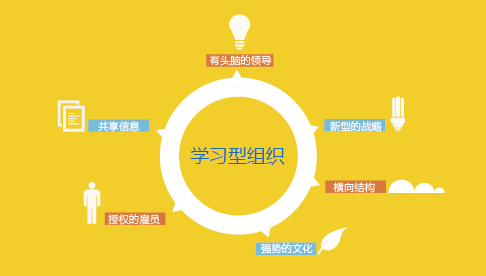
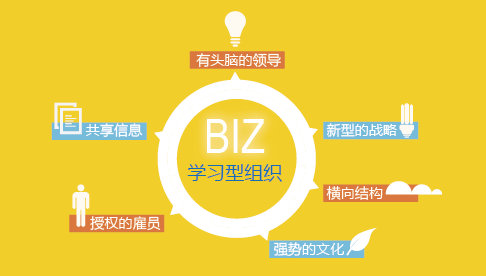
特色功能部分加入,云存储文字增加,隐私错别字修正,biz图片更新

diff --git a/wiznote-privacy.html b/wiznote-privacy.html
@@ -60,7 +60,7 @@
                         <p class="article-text">为知笔记的目标是向所有的互联网用户提供稳定、可靠而便捷的云笔记服务和美好的使用体验。用户对自己在为知笔记系列产品上的数据，拥有完整的所有权和使用权，我知科技、云服务提供商和任何第三方都无权使用您的数据。</p> 
                         <div>
                            <h2>数据安全</h2>
-                           <p class="article-text">为知笔记的数据存储，由国际著名云服务厂商提供服务。企业级用户可以自行选择云服务提供商，我们默认将个人用户的数据存储在阿里云服务器上，基于分布式存储技术，弹性计算服务实现了云服务器的故障恢复功能，能够在发生故障的第一时间完成云服务器的自动迁移，同时保证网址、防火墙规则等不发生变化。您的每一分数据都散列在全球的服务器上，任何人——包括为知笔记的员工都无法查到一份完整的数据。</p>   
+                           <p class="article-text">为知笔记的数据存储，由国际著名云服务厂商提供服务。企业级用户可以自行选择云服务提供商，我们默认将个人用户的数据存储在阿里云服务器上，基于分布式存储技术，弹性计算服务实现了云服务器的故障恢复功能，能够在发生故障的第一时间完成云服务器的自动迁移，同时保证网址、防火墙规则等不发生变化。您的每一份数据都散列在全球的服务器上，任何人——包括为知笔记的员工都无法查到一份完整的数据。</p>   
                            <p class="article-text">你的为知笔记帐户具有密码保护功能，以确保你的隐私和信息安全。为知笔记确保您的个人信息和笔记数据受到多重保护。为知笔记会努力采取多种合理的防范措施保护您的信息、帐号等。</p>
                            <div>
                             <ol> 

diff --git a/wiznote-cloud.html b/wiznote-cloud.html
@@ -79,7 +79,7 @@
                         <img src="assets/img/indexmorecloud-2.png" title="知识库"></img>
                     </div>
                     <div class="featureDescribe">
-                        <p>为知笔记的数据存储，由国际著名云服务厂商提供服务。我们默认部署在阿里云服务器上，你的数据和支付宝一样安全。</p>
+                        <p>为知笔记的数据存储，由国际著名云服务厂商提供服务。我们默认部署在阿里云服务器上，你的数据和支付宝一样安全。<br>您的数据存储基于分布式存储技术，弹性计算服务实现了云服务器的故障恢复功能，能够在发生故障的第一时间完成云服务器的自动迁移，同时保证网址、防火墙规则等不发生变化。<br>您的每一份数据都散列在全球的服务器上,任何人——包括为知笔记的员工都无法查到一份完整的数据。</p>
                         <!-- <a href=""><span>了解更多</span></a> -->
                     </div>
                     

diff --git a/index.html b/index.html
@@ -198,8 +198,10 @@
 							<p class="f14-w">列举了一些使用上的常见问题</p>
 						</li>
 						<li style="margin:0;">
-							<a href="support.html">获得支持</a>
-							<p class="f14-w">我们提供了多种反馈问题与建议的途径</p>
+							<a href="http://blog.wiz.cn/">特色功能</a>
+							<p>	
+								<a href="http://www.wiz.cn/url2wiz" style="font-size:14px;font-weight: normal;">url2wiz 快速保存网页</a><br><a href="http://blog.wiz.cn/%E3%80%90%E4%B8%BA%E7%9F%A5%E7%AC%94%E8%AE%B0%E5%BE%AE%E4%BF%A1%E5%8A%A9%E6%89%8B%E3%80%91%E5%BC%80%E9%80%9A.html" style="font-size:14px;font-weight: normal;">微信转发到为知笔记</a><br><a href="http://blog.wiz.cn/save-weibo-to-wiz.html" style="font-size:14px;font-weight: normal;">收藏微博到为知笔记</a>
+							</p>
 						</li>
 						<!-- <br clear="all"/> -->
 					</ul>
